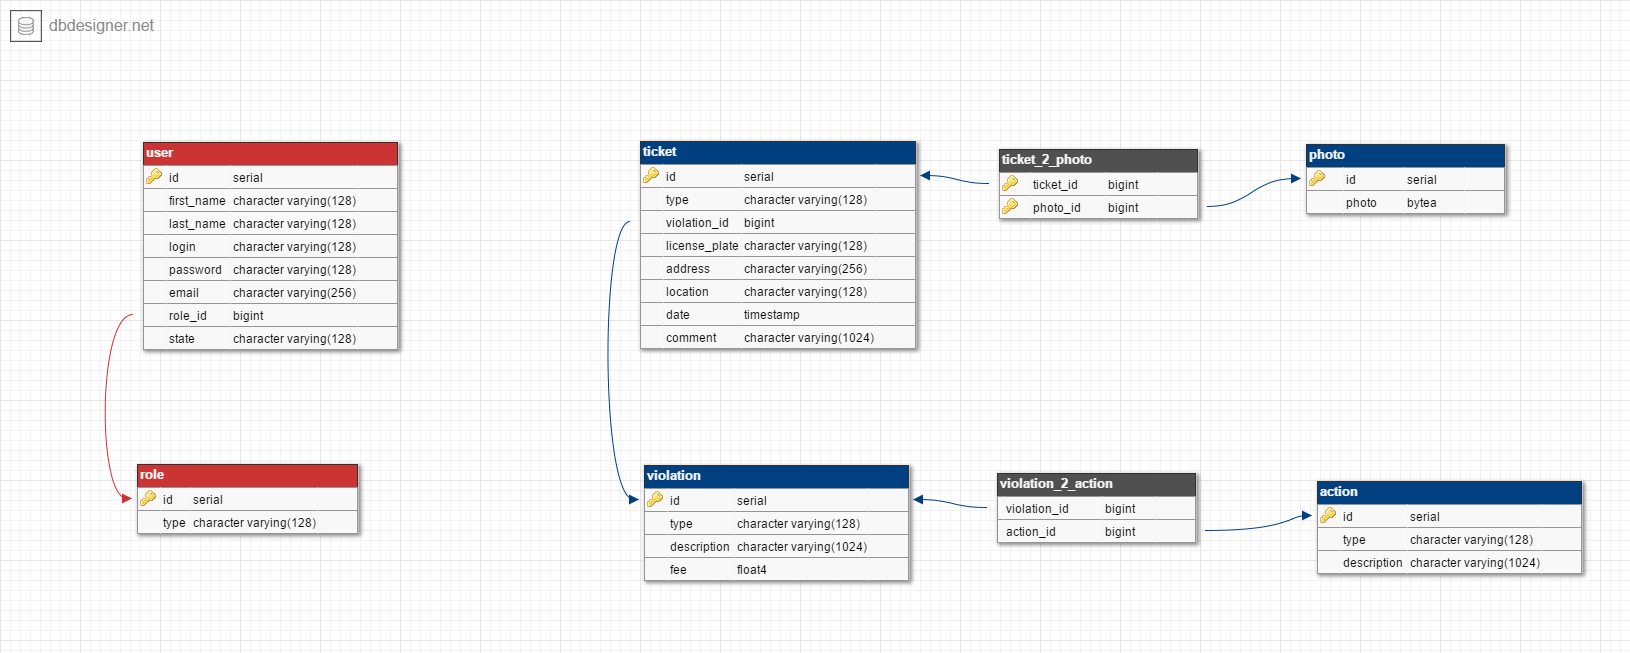
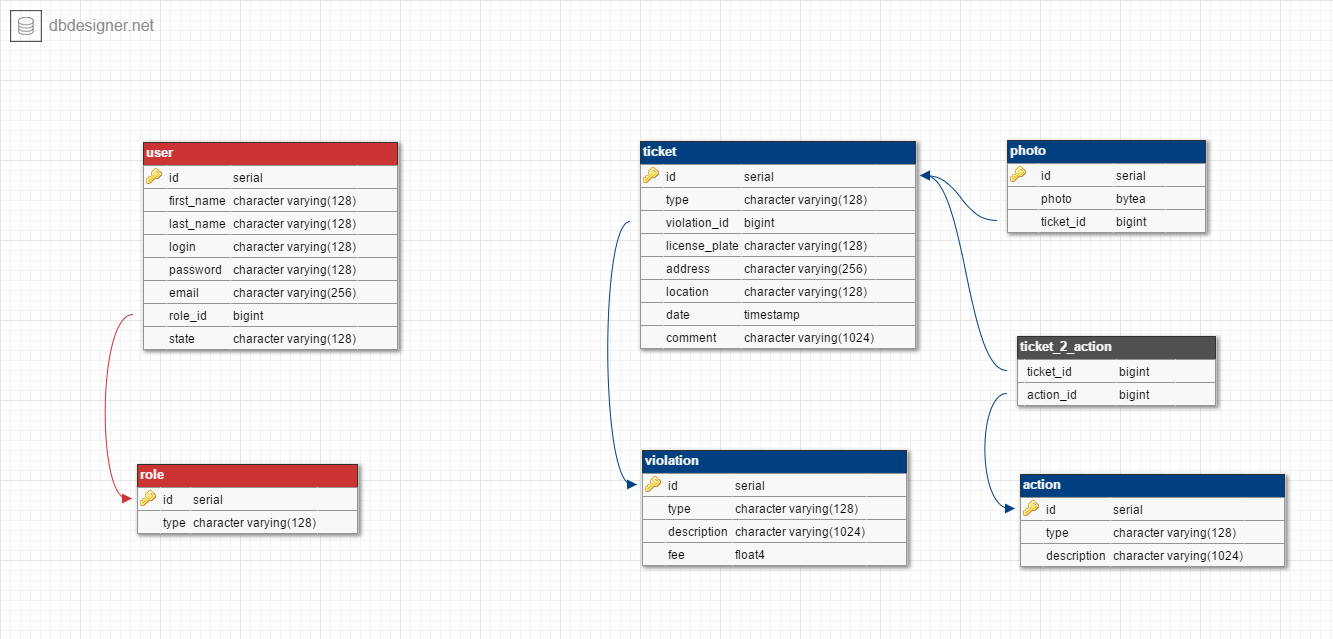
updated db model

diff --git a/src/test/java/ServiceTest.java b/src/test/java/ServiceTest.java
@@ -84,41 +84,43 @@ public class ServiceTest {
 //
 //    }
 
-    @Test
-    public void ticketInsertTest() throws IOException {
-
-        Ticket ticket = new Ticket();
-        ticket.setType(TicketEnum.NOT_PROCESSED);
-        ticket.setDate(new Date());
-        ticket.setLocation("loc");
-        ticket.setLicensePlate("LP 1234");
-
-
-        Violation violation = violationService.getById(1l);
-        Action action = actionService.getById(1l);
-
-        Set<Action> actions = new HashSet<Action>();
-        actions.add(action);
-
-        violation.setActions(actions);
-
-        ticket.setViolation(violation);
-
-        Photo photo = new Photo();
-
-        BufferedImage originalImage = ImageIO.read(new File(
-                "db//model.png"));
-
-        photo.setPhoto(Photo.getByteArrayPhoto(originalImage));
-
-        Set<Photo> photoSet = new HashSet<>();
-        photoSet.add(photo);
-
-        ticket.setViolationPhotos(photoSet);
-
-        ticketService.save(ticket);
-
-    }
+//    @Test
+//    public void ticketInsertTest() throws IOException {
+//
+//        Ticket ticket = new Ticket();
+//        ticket.setType(TicketEnum.NOT_PROCESSED);
+//        ticket.setDate(new Date());
+//        ticket.setAddress("ул. Кирова, 32");
+//        ticket.setLocation("53.678409, 23.837026");
+//        ticket.setLicensePlate("LP 1234");
+//
+//
+//        Violation violation = violationService.getById(1l);
+//        Action action = actionService.getById(1l);
+//
+//        Set<Action> actions = new HashSet<Action>();
+//        actions.add(action);
+//
+//        ticket.setActions(actions);
+//
+//        ticket.setViolation(violation);
+//
+//        Photo photo = new Photo();
+//
+//        BufferedImage originalImage = ImageIO.read(new File(
+//                "pics//images.jpg"));
+//
+//        photo.setPhoto(Photo.getByteArrayPhoto(originalImage));
+//        photo.setTicket(ticket);
+//
+//        Set<Photo> photoSet = new HashSet<>();
+//        photoSet.add(photo);
+//
+//        ticket.setViolationPhotos(photoSet);
+//
+//        ticketService.save(ticket);
+//
+//    }
 
 //    @Test
 //    public void ticketGetTest() throws IOException {

diff --git a/src/main/java/com/github/maximkirko/wpserver/datamodel/Ticket.java b/src/main/java/com/github/maximkirko/wpserver/datamodel/Ticket.java
@@ -1,5 +1,6 @@
 package com.github.maximkirko.wpserver.datamodel;
 
+import com.github.maximkirko.wpserver.datamodel.action.Action;
 import com.github.maximkirko.wpserver.datamodel.violation.Violation;
 import org.hibernate.annotations.Fetch;
 import org.hibernate.annotations.FetchMode;
@@ -26,11 +27,7 @@ public class Ticket {
     @Enumerated(EnumType.STRING)
     private TicketEnum type;
 
-    @ManyToMany(fetch = FetchType.LAZY, cascade = CascadeType.ALL)
-    @JoinTable(name = "ticket_2_photo", joinColumns = {
-            @JoinColumn(name = "ticket_id", nullable = false, updatable = false)},
-            inverseJoinColumns = {@JoinColumn(name = "photo_id",
-                    nullable = false, updatable = false)})
+    @OneToMany(fetch = FetchType.LAZY, mappedBy = "ticket", cascade = CascadeType.ALL)
     private Set<Photo> violationPhotos;
 
     @ManyToOne(fetch = FetchType.LAZY)
@@ -52,6 +49,12 @@ public class Ticket {
     @Column(name = "comment", length = 512)
     private String comment;
 
+    @ManyToMany(fetch = FetchType.LAZY)
+    @JoinTable(name = "ticket_2_action", joinColumns = {
+            @JoinColumn(name = "ticket_id", nullable = false, updatable = false)},
+            inverseJoinColumns = {@JoinColumn(name = "action_id",
+                    nullable = false, updatable = false)})
+    private Set<Action> actions;
 
     public Long getId() {
         return id;
@@ -123,6 +126,14 @@ public class Ticket {
 
     public void setComment(String comment) {
         this.comment = comment;
+    }
+
+    public Set<Action> getActions() {
+        return actions;
+    }
+
+    public void setActions(Set<Action> actions) {
+        this.actions = actions;
     }
 
     @Override

diff --git a/src/main/java/com/github/maximkirko/wpserver/datamodel/action/Action.java b/src/main/java/com/github/maximkirko/wpserver/datamodel/action/Action.java
@@ -1,10 +1,12 @@
 package com.github.maximkirko.wpserver.datamodel.action;
 
+import com.github.maximkirko.wpserver.datamodel.Ticket;
 import com.github.maximkirko.wpserver.datamodel.violation.Violation;
 
 import javax.persistence.*;
 
 import java.util.List;
+import java.util.Set;
 
 import static javax.persistence.GenerationType.IDENTITY;
 
@@ -26,12 +28,11 @@ public class Action {
     @Enumerated(EnumType.STRING)
     private ActionEnum type;
 
-    @Column(name = "description", nullable = false, length = 512)
+    @Column(name = "description", nullable = false, length = 1024)
     private String description;
 
     @ManyToMany(fetch = FetchType.LAZY, mappedBy = "actions", cascade = CascadeType.ALL)
-    private List<Violation> violations;
-
+    private Set<Ticket> tickets;
 
     public Long getId() {
         return id;
@@ -57,12 +58,12 @@ public class Action {
         this.description = description;
     }
 
-    public List<Violation> getViolations() {
-        return violations;
+    public Set<Ticket> getTickets() {
+        return tickets;
     }
 
-    public void setViolations(List<Violation> violations) {
-        this.violations = violations;
+    public void setTickets(Set<Ticket> tickets) {
+        this.tickets = tickets;
     }
 
     @Override
@@ -75,10 +76,6 @@ public class Action {
     }
 
     public Action() {
-
-    }
-
-    public void performAction() {
 
     }
 }

diff --git a/src/main/java/com/github/maximkirko/wpserver/web/controller/ClientInteractionServlet.java b/src/main/java/com/github/maximkirko/wpserver/web/controller/ClientInteractionServlet.java
@@ -11,8 +11,7 @@ import java.io.OutputStreamWriter;
 
 @WebServlet("/ClientInteractionServlet")
 public class ClientInteractionServlet extends HttpServlet {
-    private static final long serialVersionUID = 1L;
- 
+
     public ClientInteractionServlet() {
         super();
  
@@ -21,7 +20,7 @@ public class ClientInteractionServlet extends HttpServlet {
     protected void doGet(HttpServletRequest request, HttpServletResponse response) throws ServletException, IOException {
  
         response.getOutputStream().println("Hurray !! This Servlet Works");
- 
+
     }
  
     protected void doPost(HttpServletRequest request, HttpServletResponse response) throws ServletException, IOException {
@@ -40,7 +39,7 @@ public class ClientInteractionServlet extends HttpServlet {
             response.setStatus(HttpServletResponse.SC_OK);
             OutputStreamWriter writer = new OutputStreamWriter(response.getOutputStream());
  
-            String resp = "THIS SHIT SI ALSO WORKS!";
+            String resp = "resp";
 
             writer.write(resp);
             writer.flush();

diff --git a/src/main/java/com/github/maximkirko/wpserver/datamodel/violation/Violation.java b/src/main/java/com/github/maximkirko/wpserver/datamodel/violation/Violation.java
@@ -33,16 +33,8 @@ public class Violation {
     @Column(name = "fee", nullable = false)
     private double fee;
 
-    @ManyToMany(fetch = FetchType.LAZY)
-    @JoinTable(name = "violation_2_action", joinColumns = {
-            @JoinColumn(name = "violation_id", nullable = false, updatable = false)},
-            inverseJoinColumns = {@JoinColumn(name = "action_id",
-                    nullable = false, updatable = false)})
-    private Set<Action> actions;
-
     @OneToMany(fetch = FetchType.LAZY, mappedBy = "violation")
     private Set<Ticket> tickets;
-
 
     public Long getId() {
         return id;
@@ -74,14 +66,6 @@ public class Violation {
 
     public void setFee(double fee) {
         this.fee = fee;
-    }
-
-    public Set<Action> getActions() {
-        return actions;
-    }
-
-    public void setActions(Set<Action> actions) {
-        this.actions = actions;
     }
 
     public Set<Ticket> getTickets() {

diff --git a/src/main/java/com/github/maximkirko/wpserver/datamodel/Photo.java b/src/main/java/com/github/maximkirko/wpserver/datamodel/Photo.java
@@ -29,9 +29,9 @@ public class Photo {
     @Column(name = "photo", unique = true, nullable = false)
     private byte[] photo;
 
-    @ManyToMany(fetch = FetchType.LAZY, mappedBy = "violationPhotos")
-    private Set<Ticket> tickets;
-
+    @ManyToOne(fetch = FetchType.LAZY)
+    @JoinColumn(name = "ticket_id", nullable = false, updatable = false)
+    private Ticket ticket;
 
     public Long getId() {
         return id;
@@ -49,12 +49,12 @@ public class Photo {
         this.photo = photo;
     }
 
-    public Set<Ticket> getTickets() {
-        return tickets;
+    public Ticket getTicket() {
+        return ticket;
     }
 
-    public void setTickets(Set<Ticket> tickets) {
-        this.tickets = tickets;
+    public void setTicket(Ticket ticket) {
+        this.ticket = ticket;
     }
 
     @Override

diff --git a/src/main/java/com/github/maximkirko/wpserver/dao/util/HibernateUtil.java b/src/main/java/com/github/maximkirko/wpserver/dao/util/HibernateUtil.java
@@ -9,10 +9,8 @@ public class HibernateUtil {
  
 	private static SessionFactory buildSessionFactory() {
 		try {
-			// Create the SessionFactory from hibernate.cfg.xml
 			return new Configuration().configure().buildSessionFactory();
 		} catch (Throwable ex) {
-			// Make sure you log the exception, as it might be swallowed
 			System.err.println("Initial SessionFactory creation failed." + ex);
 			throw new ExceptionInInitializerError(ex);
 		}
@@ -23,8 +21,6 @@ public class HibernateUtil {
 	}
  
 	public static void shutdown() {
-		// Close caches and connection pools
 		getSessionFactory().close();
 	}
- 
 }
